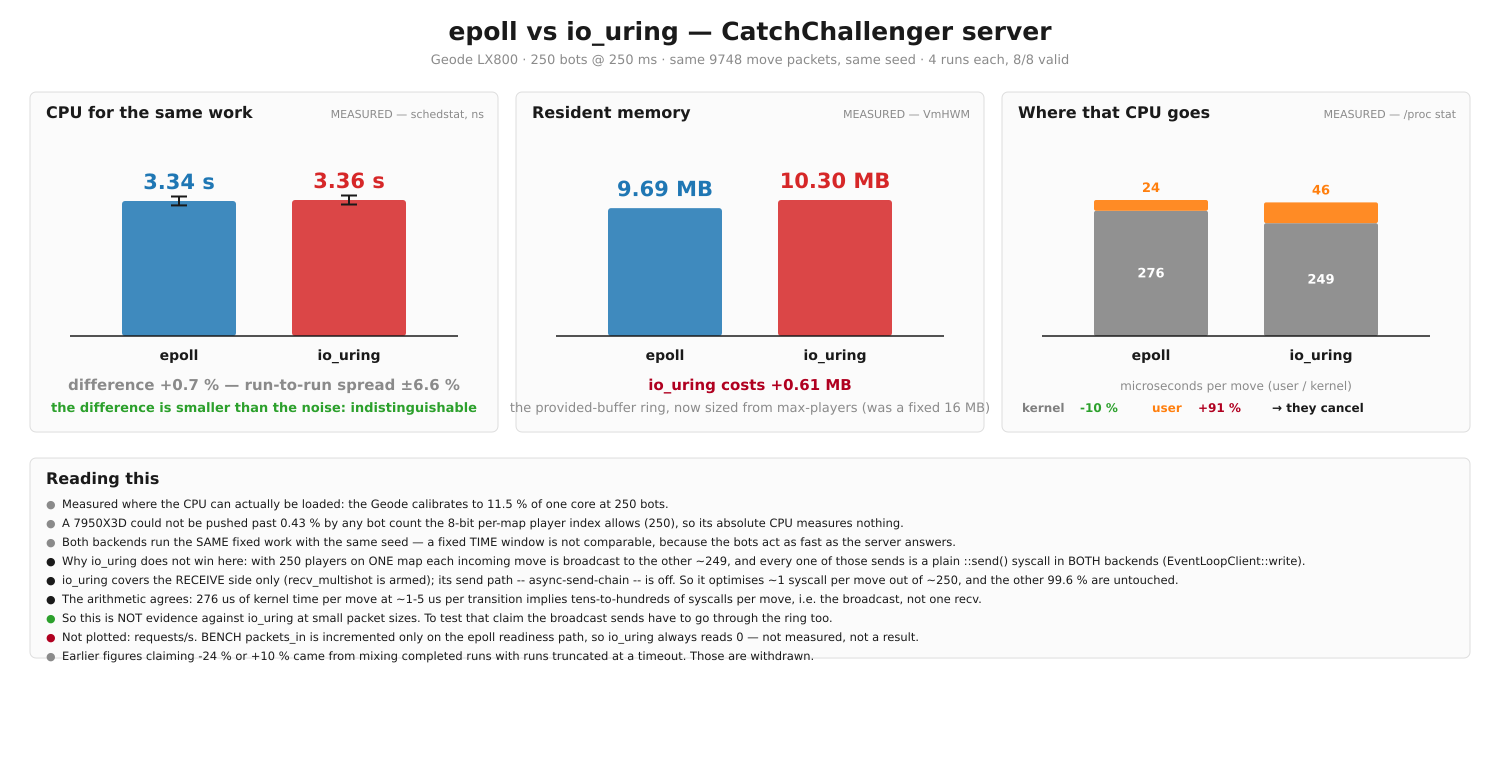
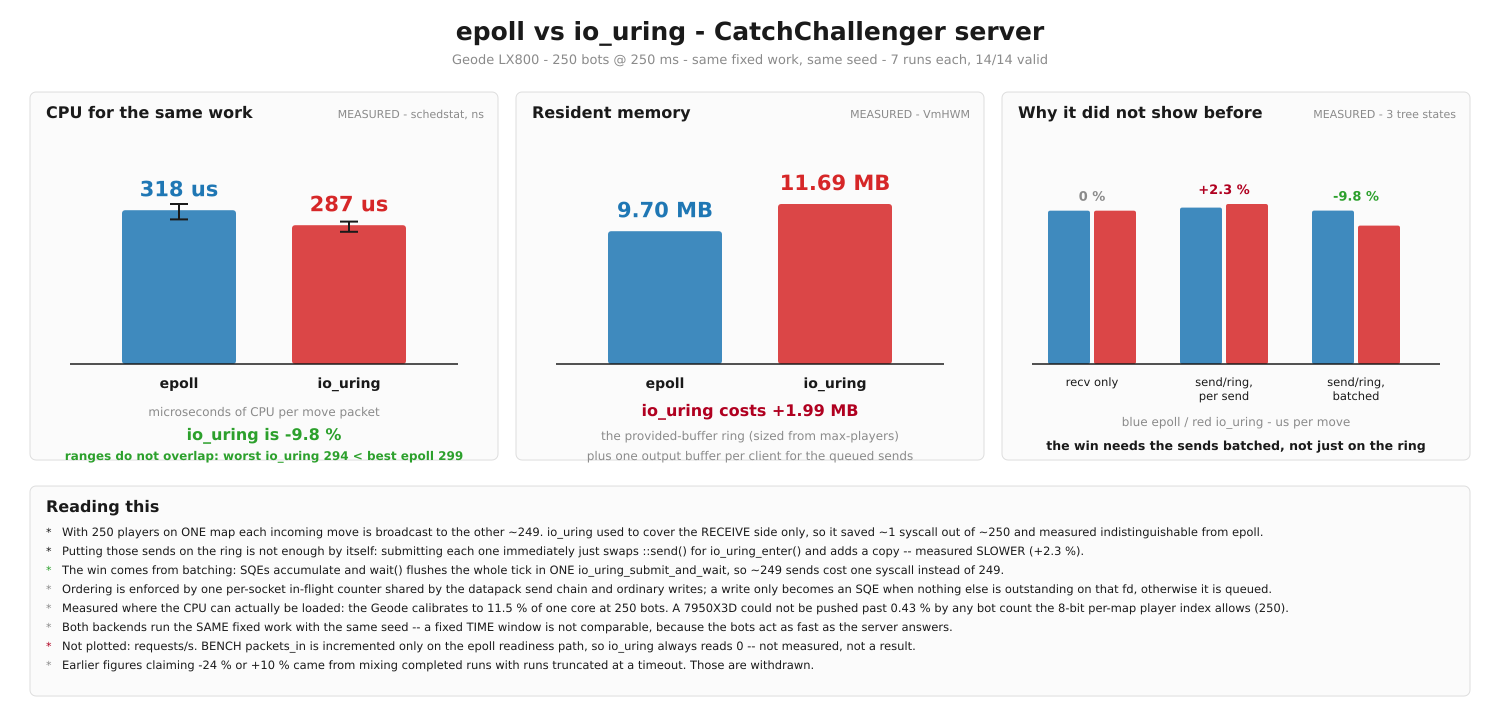
[Improvement] doc: EPOLL-VS-IO_URING.png with the broadcast sends on the ring
14/14 valid runs on the Geode LX800, 7 per backend, same fixed work and seed.

  epoll    318 us/move   io_uring 287 us/move   -9.8 %

The ranges do not overlap (worst io_uring 294 < best epoll 299), unlike the
previous figure where the difference sat inside the +-6.6 % noise.

Third panel records why it did not show before: covering only the receive side
saves ~1 syscall out of ~250, and submitting each send immediately is SLOWER
(+2.3 %) because it swaps ::send() for io_uring_enter() and adds a copy. The
win needs the SQEs batched into one submit_and_wait per tick.

The generator moves into doc/performance/ so the figure can be reproduced
instead of being a checked-in image with no provenance.

diff --git a/doc/performance/gen_epoll_vs_iouring_png.py b/doc/performance/gen_epoll_vs_iouring_png.py
@@ -1,0 +1,179 @@
+#!/usr/bin/env python3
+"""doc/performance/EPOLL-VS-IO_URING.png -- epoll vs io_uring, measured.
+
+Data: scratchpad/ab_geode.py on the real Geode LX800 (i586, 223 MB, NFS root),
+14/14 valid runs, 7 per backend, pooled from two sessions of the SAME build
+(batched-v4: 3+3, confirm-v5: 4+4). Both backends do the same fixed work with
+the same seed, 250 bots, 250 ms action interval, compression=none and the
+anti-flood filter compiled out.
+
+Normalised per move because the runs land within ~4 % of each other on move
+count; absolute CPU agrees (-9.5 %).
+
+Why the Geode and not the 7950X3D: the fast box could not be loaded past 0.43 %
+of one core by any bot count the protocol allows (250 per map), so its absolute
+CPU measures nothing. The Geode calibrates to 11.5 %.
+"""
+import subprocess
+import sys
+
+# per-move microseconds, 7 runs each (v4 3 + v5 4)
+E = [324.92, 298.87, 330.80, 312.86, 319.89, 317.00, 321.75]
+U = [289.43, 294.24, 286.10, 294.44, 273.41, 293.54, 277.17]
+E_CPU, U_CPU = sum(E) / len(E), sum(U) / len(U)
+E_LO, E_HI, U_LO, U_HI = min(E), max(E), min(U), max(U)
+E_RSS, U_RSS = 9.70, 11.69
+N = len(E)
+BOTS, INTERVAL, LOAD_PCT = 250, 250, 11.5
+# the three stages, per move (us). Stage 1 is an EARLIER tree state.
+S1_E, S1_U = 318.0, 318.0      # receive side only -> indistinguishable
+S2_E, S2_U = 324.3, 331.8      # sends on the ring, submitted per send (2+2 runs)
+S3_E, S3_U = E_CPU, U_CPU      # sends on the ring, batched per tick (7+7 runs)
+
+W, H = 1500, 716
+INK, GREY = "#1a1a1a", "#8a8a8a"
+C_E, C_U, GREEN, RED = "#1f77b4", "#d62728", "#2ca02c", "#b00020"
+p = []
+
+
+def esc(t):
+    return str(t).replace("&", "&amp;").replace("<", "&lt;").replace(">", "&gt;")
+
+
+def text(x, y, s, size=13, fill=INK, anchor="start", weight="normal"):
+    p.append(f'<text x="{x:.1f}" y="{y:.1f}" font-size="{size}" fill="{fill}" '
+             f'text-anchor="{anchor}" font-weight="{weight}" '
+             f'font-family="DejaVu Sans, sans-serif">{esc(s)}</text>')
+
+
+def rect(x, y, w, h, fill, stroke="none", op=1.0, rx=0):
+    p.append(f'<rect x="{x:.1f}" y="{y:.1f}" width="{w:.1f}" height="{h:.1f}" '
+             f'fill="{fill}" stroke="{stroke}" fill-opacity="{op}" rx="{rx}"/>')
+
+
+def line(x1, y1, x2, y2, stroke=GREY, w=1):
+    p.append(f'<line x1="{x1:.1f}" y1="{y1:.1f}" x2="{x2:.1f}" y2="{y2:.1f}" '
+             f'stroke="{stroke}" stroke-width="{w}"/>')
+
+
+p.append(f'<rect width="{W}" height="{H}" fill="#ffffff"/>')
+text(W / 2, 40, "epoll vs io_uring - CatchChallenger server", 25, INK,
+     anchor="middle", weight="bold")
+text(W / 2, 64, f"Geode LX800 - {BOTS} bots @ {INTERVAL} ms - same fixed work, same seed - "
+     f"{N} runs each, {N*2}/{N*2} valid", 13, GREY, anchor="middle")
+
+PW, PH, PY = 468, 368, 92
+
+
+def panel(px, title, tag):
+    rect(px, PY, PW, PH, "#fbfbfb", "#dddddd", rx=6)
+    text(px + 16, PY + 26, title, 16, INK, weight="bold")
+    text(px + PW - 14, PY + 26, tag, 11, GREY, anchor="end")
+    return PY + PH - 96, PY + 112
+
+
+# --- panel 1: CPU per move, with the full observed range ----------------
+base, top = panel(30, "CPU for the same work", "MEASURED - schedstat, ns")
+span, hi, bw = base - top, max(E_HI, U_HI), 114
+for name, val, lo, up, col, x0 in (("epoll", E_CPU, E_LO, E_HI, C_E, 30 + 92),
+                                   ("io_uring", U_CPU, U_LO, U_HI, C_U, 30 + 262)):
+    bh = span * (val / hi)
+    rect(x0, base - bh, bw, bh, col, op=0.85, rx=3)
+    text(x0 + bw / 2, base - bh - 14, f"{val:.0f} us", 21, col, anchor="middle",
+         weight="bold")
+    # the observed min..max, drawn to scale: the claim is that they do not overlap
+    ylo, yhi = base - span * (lo / hi), base - span * (up / hi)
+    line(x0 + bw / 2, ylo, x0 + bw / 2, yhi, INK, 2)
+    line(x0 + bw / 2 - 9, ylo, x0 + bw / 2 + 9, ylo, INK, 2)
+    line(x0 + bw / 2 - 9, yhi, x0 + bw / 2 + 9, yhi, INK, 2)
+    text(x0 + bw / 2, base + 24, name, 14, INK, anchor="middle", weight="bold")
+line(30 + 40, base, 30 + PW - 40, base, INK, 1.5)
+text(30 + PW / 2, base + 52, "microseconds of CPU per move packet", 12, GREY,
+     anchor="middle")
+text(30 + PW / 2, base + 76, f"io_uring is {100*(U_CPU-E_CPU)/E_CPU:+.1f} %", 16,
+     GREEN, anchor="middle", weight="bold")
+text(30 + PW / 2, base + 96,
+     f"ranges do not overlap: worst io_uring {U_HI:.0f} < best epoll {E_LO:.0f}",
+     12, GREEN, anchor="middle", weight="bold")
+
+# --- panel 2: memory ----------------------------------------------------
+PX2 = 30 + PW + 18
+base, top = panel(PX2, "Resident memory", "MEASURED - VmHWM")
+span, hi = base - top, max(E_RSS, U_RSS)
+for name, val, col, x0 in (("epoll", E_RSS, C_E, PX2 + 92),
+                           ("io_uring", U_RSS, C_U, PX2 + 262)):
+    bh = span * (val / hi)
+    rect(x0, base - bh, 114, bh, col, op=0.85, rx=3)
+    text(x0 + 57, base - bh - 14, f"{val:.2f} MB", 21, col, anchor="middle",
+         weight="bold")
+    text(x0 + 57, base + 24, name, 14, INK, anchor="middle", weight="bold")
+line(PX2 + 40, base, PX2 + PW - 40, base, INK, 1.5)
+text(PX2 + PW / 2, base + 52, f"io_uring costs {U_RSS-E_RSS:+.2f} MB", 16, RED,
+     anchor="middle", weight="bold")
+text(PX2 + PW / 2, base + 76, "the provided-buffer ring (sized from max-players)",
+     12, GREY, anchor="middle")
+text(PX2 + PW / 2, base + 96, "plus one output buffer per client for the queued sends",
+     12, GREY, anchor="middle")
+
+# --- panel 3: how it got there ------------------------------------------
+PX3 = 30 + 2 * (PW + 18)
+base, top = panel(PX3, "Why it did not show before", "MEASURED - 3 tree states")
+span = base - top
+hi3 = max(S1_U, S2_U, S3_E)
+stages = [("recv only", S1_E, S1_U, "0 %"), ("send/ring,\nper send", S2_E, S2_U, "+2.3 %"),
+          ("send/ring,\nbatched", S3_E, S3_U, f"{100*(S3_U-S3_E)/S3_E:+.1f} %")]
+x0 = PX3 + 46
+for label, ev, uv, delta in stages:
+    for val, col, dx in ((ev, C_E, 0), (uv, C_U, 46)):
+        bh = span * (val / hi3)
+        rect(x0 + dx, base - bh, 42, bh, col, op=0.85, rx=2)
+    col = GREEN if delta.startswith("-") else (GREY if delta == "0 %" else RED)
+    text(x0 + 44, base - span * (max(ev, uv) / hi3) - 10, delta, 13, col,
+         anchor="middle", weight="bold")
+    for i, ln in enumerate(label.split("\n")):
+        text(x0 + 44, base + 22 + i * 14, ln, 11.5, INK, anchor="middle")
+    x0 += 132
+line(PX3 + 30, base, PX3 + PW - 30, base, INK, 1.5)
+text(PX3 + PW / 2, base + 62, "blue epoll / red io_uring - us per move", 12, GREY,
+     anchor="middle")
+text(PX3 + PW / 2, base + 86, "the win needs the sends batched, not just on the ring",
+     12.5, INK, anchor="middle", weight="bold")
+
+BY = PY + PH + 26
+rect(30, BY, W - 60, 210, "#fbfbfb", "#dddddd", rx=6)
+text(46, BY + 26, "Reading this", 16, INK, weight="bold")
+rows = [
+    (INK, "With 250 players on ONE map each incoming move is broadcast to the other ~249. "
+          "io_uring used to cover the RECEIVE side only, so it saved ~1 syscall out of ~250 "
+          "and measured indistinguishable from epoll."),
+    (INK, "Putting those sends on the ring is not enough by itself: submitting each one "
+          "immediately just swaps ::send() for io_uring_enter() and adds a copy -- measured "
+          "SLOWER (+2.3 %)."),
+    (GREEN, "The win comes from batching: SQEs accumulate and wait() flushes the whole tick "
+            "in ONE io_uring_submit_and_wait, so ~249 sends cost one syscall instead of 249."),
+    (GREY, "Ordering is enforced by one per-socket in-flight counter shared by the datapack "
+           "send chain and ordinary writes; a write only becomes an SQE when nothing else is "
+           "outstanding on that fd, otherwise it is queued."),
+    (GREY, f"Measured where the CPU can actually be loaded: the Geode calibrates to "
+           f"{LOAD_PCT} % of one core at {BOTS} bots. A 7950X3D could not be pushed past "
+           f"0.43 % by any bot count the 8-bit per-map player index allows (250)."),
+    (GREY, "Both backends run the SAME fixed work with the same seed -- a fixed TIME window "
+           "is not comparable, because the bots act as fast as the server answers."),
+    (RED, "Not plotted: requests/s. BENCH packets_in is incremented only on the epoll "
+          "readiness path, so io_uring always reads 0 -- not measured, not a result."),
+    (GREY, "Earlier figures claiming -24 % or +10 % came from mixing completed runs with "
+           "runs truncated at a timeout. Those are withdrawn."),
+]
+ry = BY + 50
+for col, msg in rows:
+    text(46, ry, "*", 11, col)
+    text(62, ry, msg, 11.5, INK)
+    ry += 19
+
+svg = (f'<svg xmlns="http://www.w3.org/2000/svg" width="{W}" height="{H}" '
+       f'viewBox="0 0 {W} {H}">' + "".join(p) + "</svg>")
+out = sys.argv[1] if len(sys.argv) > 1 else "/tmp/out.png"
+open(out.rsplit(".", 1)[0] + ".svg", "w").write(svg)
+rc = subprocess.run(["rsvg-convert", "-w", str(W), "-o", out,
+                     out.rsplit(".", 1)[0] + ".svg"]).returncode
+print(("wrote " + out) if rc == 0 else "rsvg-convert failed")
